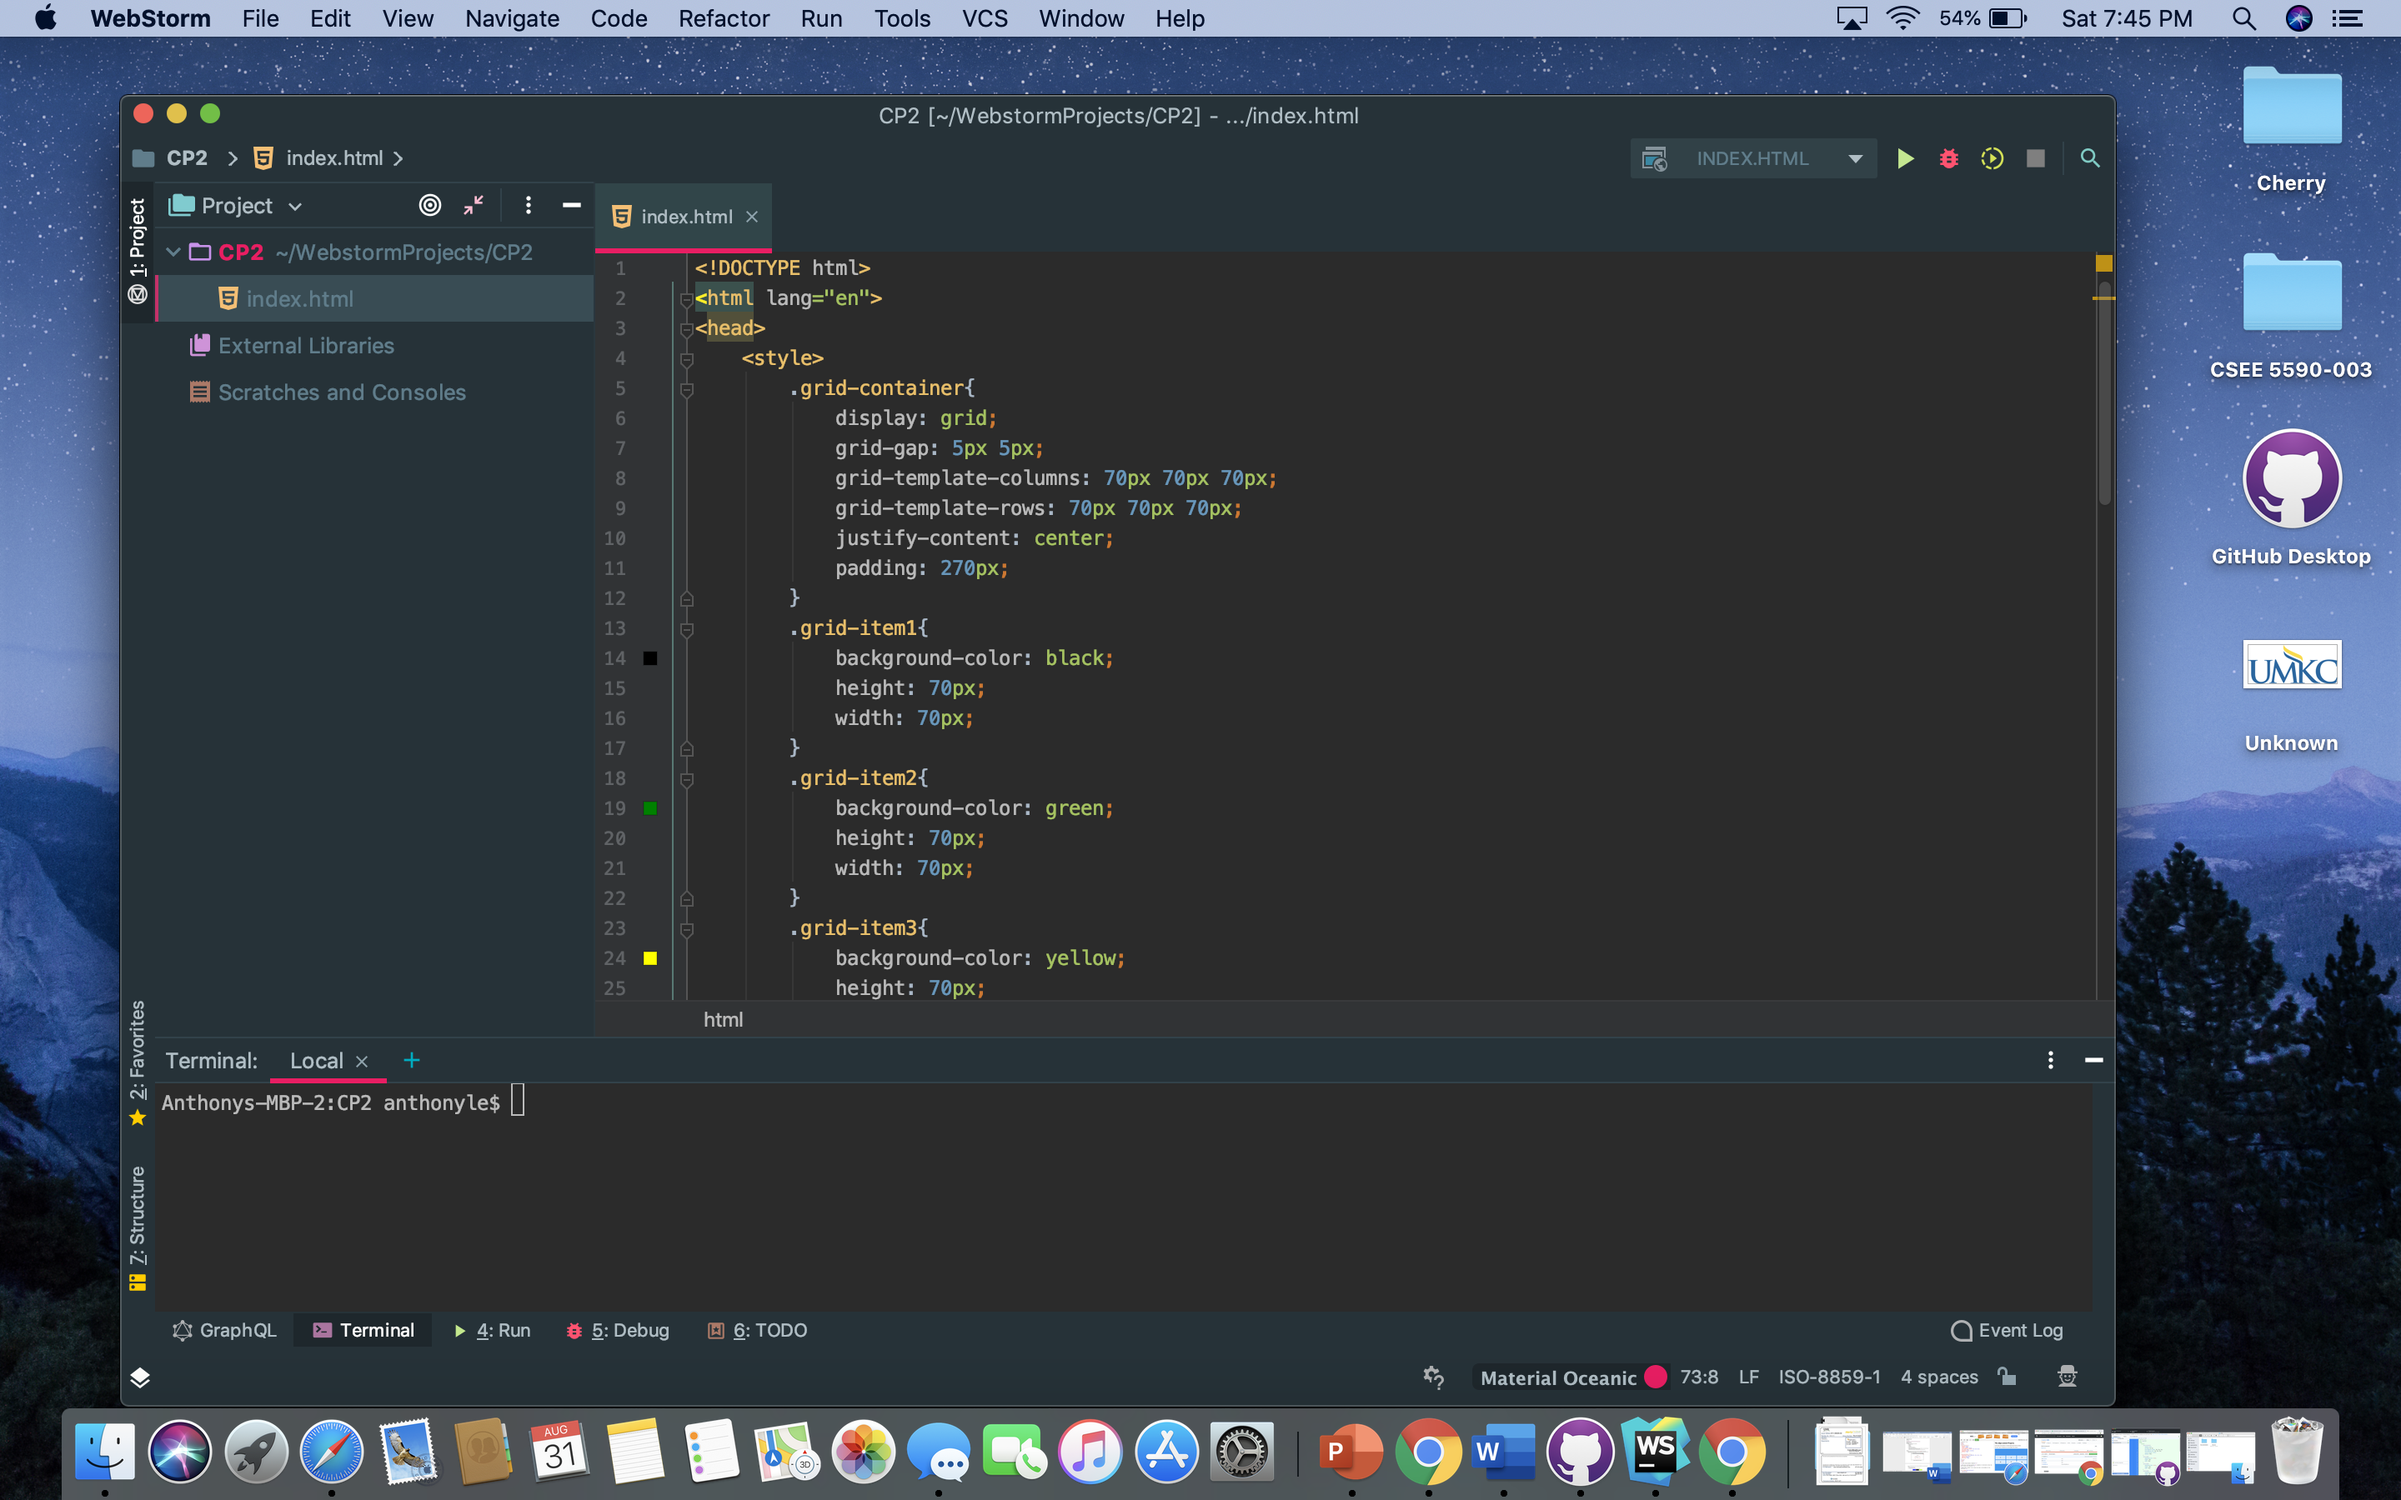
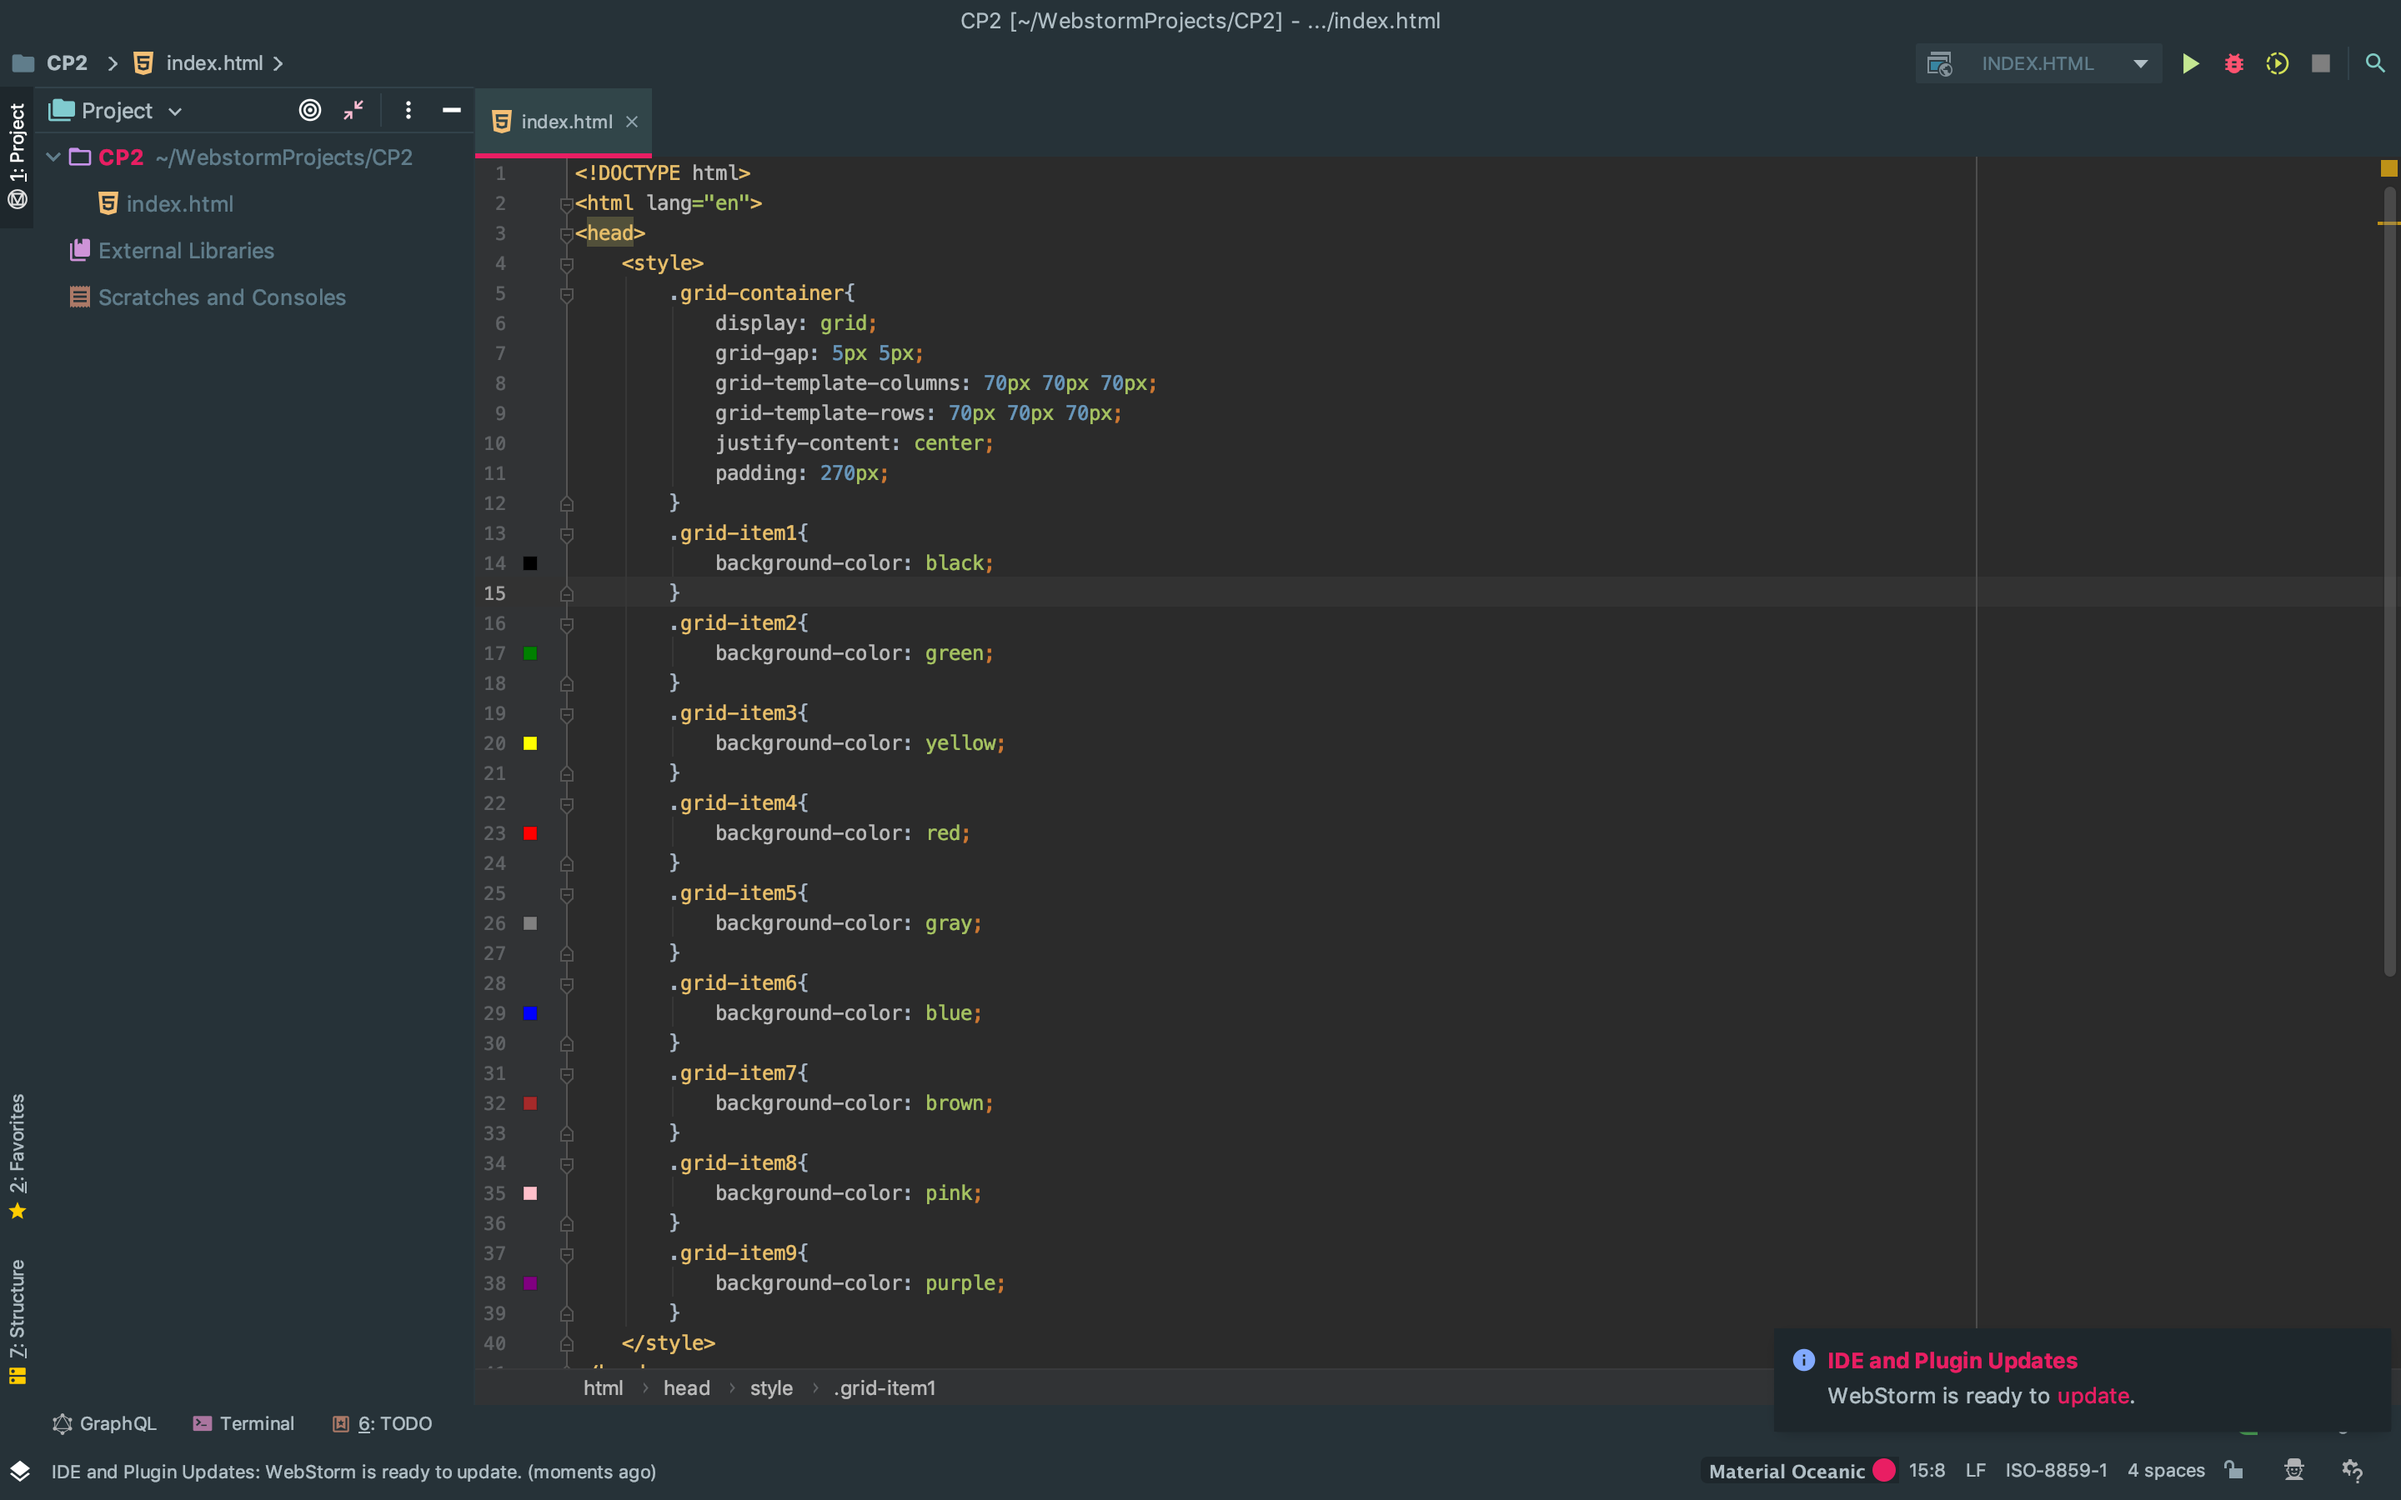
Sync to Remote

diff --git a/Source/HTML/index.html b/Source/HTML/index.html
@@ -17,15 +17,13 @@
             <li>Don't chase Animals</li>
             <li>Don't try to kill them</li>
             <p><a href="https://www.ufaw.org.uk/why-ufaws-work-is-important/wild-animal-welfare" >
-                <img src="zebra.jpg" alt="Zebra"> </a></p>
+                <img src="zebra.jpg" alt="Zebra"; style="width: 300px; height: 180px"> </a></p>
              <a href="https://www.youtube.com/watch?v=Lo9SOZr5aQU"> Click here to learn more about Wildlife </a>
         </ul>
     </span>
 </div>
-<div>
-    <h4> Youtube Wildlife</h4>
-    <iframe width="500" height="320" src="https://www.youtube.com/watch?v=Lo9SOZr5aQU" frameborder="0" allowfullscreen></iframe>
-</div>
+<h4> Youtube Wildlife</h4>
+<iframe width="560" height="315" src="https://www.youtube.com/embed/nVx_BDBtXco" frameborder="0" allow="accelerometer; autoplay; encrypted-media; gyroscope; picture-in-picture" allowfullscreen></iframe>
 <p>
     <small> Wild Animals</small>
 </p>
@@ -43,18 +41,19 @@
         <ol>
             <li>How to find an Animal in the forrest</li>
             <li>How to protect yourself when you see real animals</li>
+            <li>How to save animals</li>
             <p><a href="https://www.kent.ac.uk/news/environment/19038/research-methods-that-find-serial-criminals-could-help-save-tigers">
-                <img src="tiger.jpg"alt="tiger"></a></p>
+                <img src="tiger.jpg"alt="tiger"; style="width: 300px; height: 180px"></a></p>
             <p><a href="https://www.colorado.com/articles/why-families-love-colorado-wild-animal-sanctuary">
-                <img src="black-bear.jpg" alt="bear"></a></p>
-            <p><a href="http://www.animalplanet.com/wild-animals/"><img src="lion.jpg" alt="lion" ></a></p>
-            <a href="https://www.youtube.com/watch?v=Z68KjOE_q8w"> Click here to learn more about Wildlife </a>
+                <img src="black-bear.jpg" alt="bear"; style="width: 300px; height: 180px"></a></p>
+            <p><a href="http://www.animalplanet.com/wild-animals/"><img src="lion.jpg" alt="lion"; style="width: 300px; height: 180px" ></a></p>
+            <a href="https://www.youtube.com/watch?v=K0rRH1pPCWk"> Click here to learn more about Wildlife </a>
         </ol>
     </span>
 </div>
 <div>
     <h6>Youtube Wildlife</h6>
-    <iframe width=" 420" height=" 315" src="https://www.youtube.com/watch?v=Z68KjOE_q8w" frameborder="0" allowfullscreen></iframe>
+    <iframe width="560" height="315" src="https://www.youtube.com/embed/Z68KjOE_q8w" frameborder="0" allow="accelerometer; autoplay; encrypted-media; gyroscope; picture-in-picture" allowfullscreen></iframe>
 </div>
 <ul>
     <li>

diff --git a/Source/google/index.html b/Source/google/index.html
@@ -9,8 +9,10 @@
         <li><a href="#" class="nav-bar-opacity">Gmail</a></li>
         <li><a href="#" class="nav-bar-opacity">Images</a></li>
         <li><a href="#"><div id="menu-icon" class="nav-bar-opacity"></div></a></li>
-        <li><img style="width: 45px;height: 45px;" src="notification.png"></li>
-        <li><img style="width: 30px;height: 30px;border-radius: 50%;" src="profile.jpg"></li>
+        <span class="container">
+            <li><img style="width: 45px;height: 45px;" src="notification.png"></li>
+            <li><img style="width: 30px;height: 30px;border-radius: 60%;" src="profile.jpg"></li>
+        </span>
     </ul>
 
     <div class="main-content">
@@ -27,29 +29,28 @@
         </div>
         <div id="tiles">
             <div class="box">
-                <img class="imga" src="1.png" alt="1">
-
+                <img class="image" src="1.png">
             </div>
             <div class="box">
-                <img class="imga" src="2.png" alt="2">
+                <img class="image" src="2.png">
             </div>
             <div class="box">
-                <img class="imga" src="3.png" alt="3">
+                <img class="image" src="3.png">
             </div>
             <div class="box">
-                <img class="imga" src="4.png" alt="4">
+                <img class="image" src="4.png">
             </div>
             <div class="box">
-                <img class="imga" src="5.png"alt="5">
+                <img class="image" src="5.png">
             </div>
             <div class="box">
-                <img class="imga" src="6.png"alt="6">
+                <img class="image" src="6.png">
             </div>
             <div class="box">
-                <img class="imga" src="7.png" alt="7">
+                <img class="image" src="7.png">
             </div>
             <div class="box">
-                <img class="imga" src="8.png" alt="8">
+                <img class="image" src="8.png">
             </div>
         </div>
     </div>

diff --git a/Source/Cubic Grid/index.html b/Source/Cubic Grid/index.html
@@ -12,48 +12,30 @@
         }
         .grid-item1{
             background-color: black;
-            height: 70px;
-            width: 70px;
         }
         .grid-item2{
             background-color: green;
-            height: 70px;
-            width: 70px;
         }
         .grid-item3{
             background-color: yellow;
-            height: 70px;
-            width: 70px;
         }
         .grid-item4{
             background-color: red;
-            height: 70px;
-            width: 70px;
         }
         .grid-item5{
             background-color: gray;
-            height: 70px;
-            width: 70px;
         }
         .grid-item6{
             background-color: blue;
-            height: 70px;
-            width: 70px;
         }
         .grid-item7{
             background-color: brown;
-            height: 70px;
-            width: 70px;
         }
         .grid-item8{
             background-color: pink;
-            height: 70px;
-            width: 70px;
         }
         .grid-item9{
             background-color: purple;
-            height: 70px;
-            width: 70px;
         }
     </style>
 </head>

diff --git a/Source/google/style.css b/Source/google/style.css
@@ -76,6 +76,40 @@ body {
   height: 92px;
 }
 
+.container{
+  width: 100%;
+  border: 4px solid red;
+  object-fit: contain;
+  margin-left: auto;
+  margin-right: auto;
+  padding: 13px 3px;
+}
+
+.container img{
+  margin-right: auto;
+  margin-left: auto;
+  width: 100px;
+}
+
+#tiles{
+  width: 100%;
+  border: 4px solid red;
+}
+#tiles .box{
+  float: left;
+  width: 25%;
+  height: 40%;
+}
+
+#tiles .box .image{
+  width: 100%;
+  height: 100%;
+  object-fit: contain;
+  margin-left: auto;
+  margin-right: auto;
+  margin-top: auto;
+}
+
 #search-bar {
   position: relative;
   flex-basis: 100%;
@@ -172,18 +206,4 @@ footer a {
 }
 footer a:hover {
   text-decoration: underline;
-}
-#tiles{
-  width: 100%;
-  border: 4px solid red;
-}
-#tiles .box{
-  float: left;
-  width: 25%;
-  height: 40%;
-}
-#tiles .box .imga{
-  width: 100%;
-  height: 100%;
-  object-fit: contain;
 }
